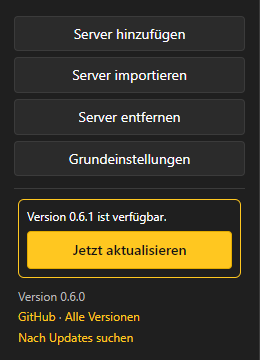
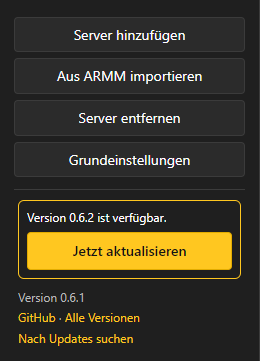
Doku zu 0.6.2: Bilder neu, Bild zum Hinweis beim Beitritt, Abgleich vor dem Beitritt, Knopf „Aus ARMM importieren“, Importdatei mit beliebigem Namen

diff --git a/README.md b/README.md
@@ -12,7 +12,7 @@ Beim Beitritt zu einem Server lädt Arma Reforger fehlende Mods erst dann, und d
 
 - **Mods abgleichen:** Holt die Mod-Liste aus dem Eintrag des Servers bei Bohemia und zeigt, welche Mods fehlen, veraltet oder aktuell sind.
 - **Mods laden:** Bringt alle Mods auf die Version des Servers. Das Spielfenster bleibt dabei ausgeblendet.
-- **Direkt beitreten:** Startet das Spiel und verbindet dich mit dem Server.
+- **Direkt beitreten:** Gleicht die Mods vorher noch einmal ab, startet das Spiel und verbindet dich mit dem Server. Bis das Spiel läuft, zeigt die App das deutlich an und nimmt keinen zweiten Klick an.
 - **Mehrere Server verwalten:** Jeder Server hat seine eigene Adresse, sein Passwort und seinen Zielordner. Weitere Server legst du links mit **Server hinzufügen** an.
 - **Server aus ARMM importieren:** Mit einer Importdatei (`.json`) aus ARMM legst du einen Server per Klick an. Seine Mod-Liste kommt dann direkt aus ARMM: Prüfen geht in Sekunden ohne Spielstart, und laden kannst du auch, wenn der Spielserver gerade aus ist.
 - **Updates per Klick:** Die installierte App meldet neue Versionen selbst und aktualisiert sich nach Rückfrage.
@@ -102,7 +102,9 @@ Der Button **Grundeinstellungen** links unten gilt für alle Server. Die Standar
 1. Das Spiel schließen.
 2. Optional in der **Übersicht** auf **Neu prüfen** klicken. Das holt nur die Mod-Liste und zeigt, was fehlt, ohne etwas herunterzuladen.
 3. Auf **Jetzt synchronisieren** klicken. Das erste Mal kann das lange dauern. Während des Laufs wird daraus **Abbrechen**, bereits geladene Mods bleiben dabei erhalten.
-4. Auf **Direkt beitreten** klicken, sobald alles aktuell ist.
+4. Auf **Direkt beitreten** klicken, sobald alles aktuell ist. Die App gleicht vorher noch einmal ab: Ein aus ARMM importierter Server holt dafür seine Mod-Liste frisch aus ARMM, bei anderen Servern wird der Zielordner neu mit der zuletzt geholten Liste verglichen. Passt etwas nicht, fragt sie nach. Danach startet das Spiel. Das kann eine Minute dauern, die App zeigt es deutlich an. Solange das Spiel startet oder läuft, sind Beitreten, Synchronisieren und Prüfen gesperrt.
+
+![Hinweis, solange das Spiel läuft](.github/screenshots/beitreten.png)
 
 Beim Schließen des Fensters wird die App beendet. Ein laufender Sync bricht dabei ab, vorher fragt die App nach. Das Spiel läuft nach „Direkt beitreten“ auch ohne die App weiter.
 
@@ -289,7 +291,7 @@ sequenceDiagram
 
 ### Direkt beitreten
 
-Hier läuft das Spiel normal: über den BattlEye-Starter, mit deinem echten Profil und sichtbar. Nur die Logs dieser Sitzung landen unter `%LOCALAPPDATA%\ReforgerModSync\clientlogs`, dort liegt auch kurz die Passwortdatei. Die App bekommt danach keine Rückmeldung mehr, sie liest bei diesem Ablauf keine Logzeilen.
+Hier läuft das Spiel normal: über den BattlEye-Starter, mit deinem echten Profil und sichtbar. Nur die Logs dieser Sitzung landen unter `%LOCALAPPDATA%\ReforgerModSync\clientlogs`, dort liegt auch kurz die Passwortdatei. Die App bekommt danach keine Rückmeldung mehr, sie liest bei diesem Ablauf keine Logzeilen. Sie sieht nur nach, ob der Spielprozess läuft, und sperrt bis zu seinem Ende Beitreten und Sync.
 
 ```mermaid
 sequenceDiagram
@@ -301,7 +303,13 @@ sequenceDiagram
     participant S as Spielserver
 
     N->>A: Klick auf „Direkt beitreten“
-    opt Mods passen laut letztem Abgleich nicht
+    alt Server aus ARMM importiert
+        A->>A: Mod-Liste frisch aus ARMM holen<br/>(nicht erreichbar: gespeicherte Liste)
+    else Server manuell angelegt
+        A->>A: Gespeicherte Liste nehmen
+    end
+    A->>D: Zielordner neu einlesen und vergleichen
+    opt Mods passen nicht
         A-->>N: Rückfrage „Trotzdem beitreten“
         N->>A: Bestätigung
     end
@@ -309,7 +317,8 @@ sequenceDiagram
     A->>A: Name per DNS in die IP auflösen<br/>(entfällt bei einer IP)
     A->>D: Passwort in die Passwortdatei<br/>im Log-Ordner dieses Laufs schreiben
     A->>H: ArmaReforger_BE.exe starten mit -logsDir (Log-Ordner) -rmsJoin IP:Port
-    A-->>N: „Das Spiel startet und tritt dem Server bei“
+    A-->>N: Hinweis „Arma Reforger wird gestartet …“,<br/>Beitritt und Sync gesperrt
+    Note over A: Prüft alle paar Sekunden, ob das Spiel läuft,<br/>gibt nach dem Schließen alles wieder frei
     Note over A,H: Ab hier keine Verbindung mehr zwischen App und Spiel
     Note over H: Wartet bis zum Hauptmenü
     H->>B: Server suchen
